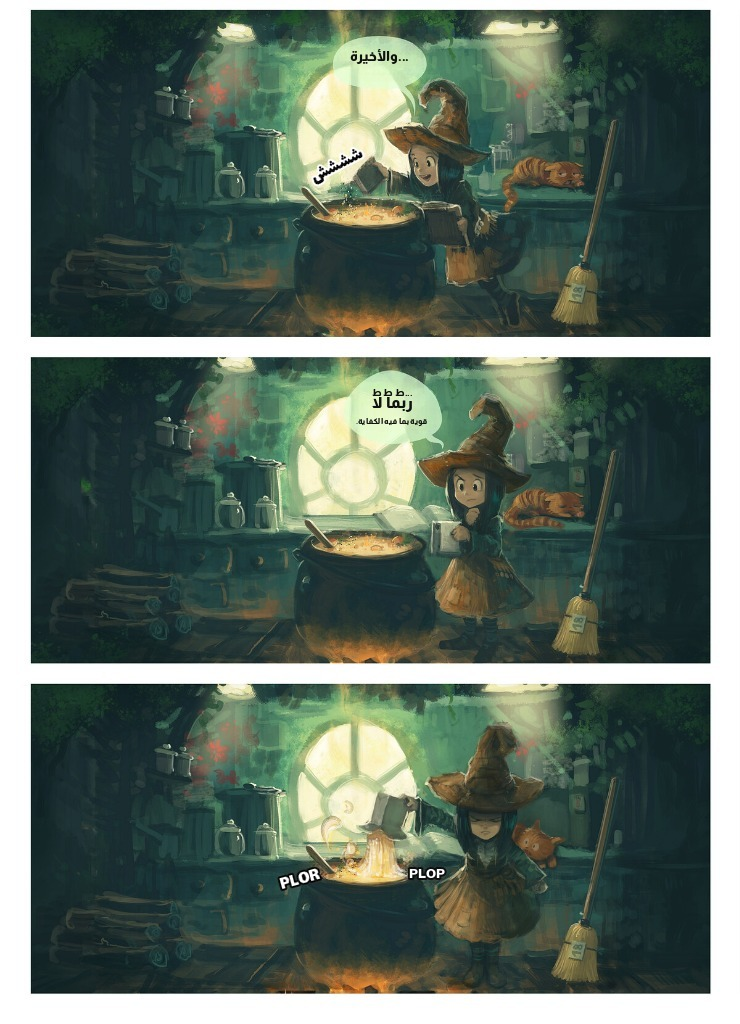
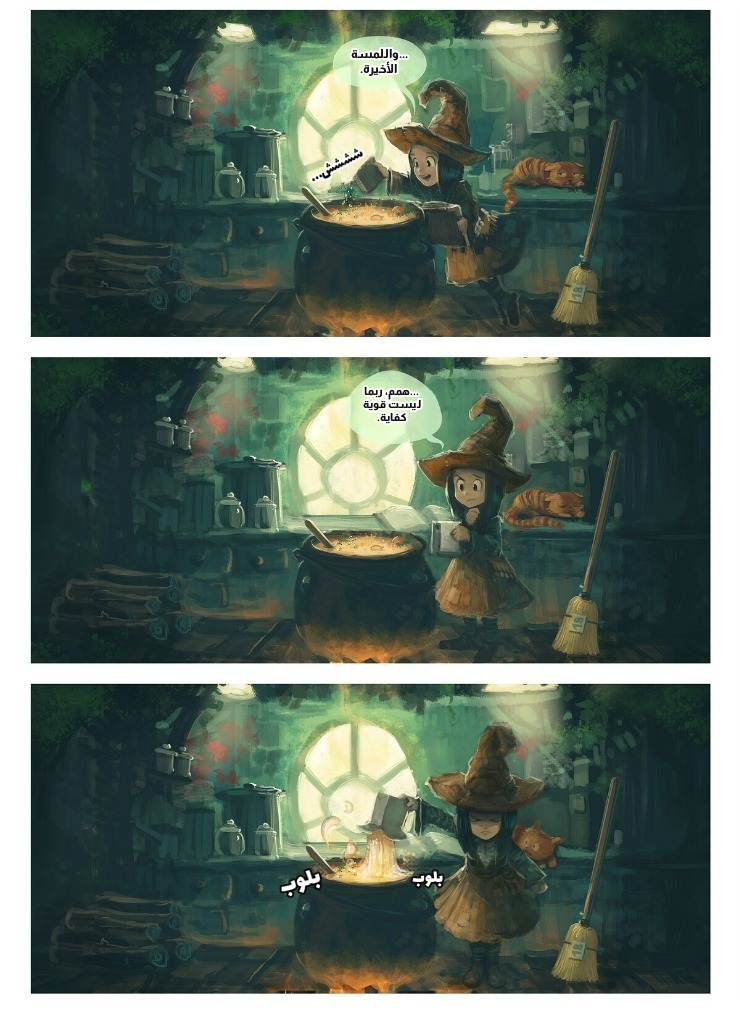
Remove Japanese sample images; add Arabic and Chinese Pepper&Carrot showcase

diff --git a/app/renderer.py b/app/renderer.py
@@ -67,6 +67,24 @@ class MangaRenderer:
                 return FONT_ARABIC_SFX
             if FONT_ARABIC.exists():
                 return FONT_ARABIC
+        if target_lang in {"zh-CN", "zh-TW", "ja", "ko"}:
+            cjk_candidates = (
+                [Path("C:/Windows/Fonts/msyhbd.ttc"), Path("C:/Windows/Fonts/msyh.ttc")]
+                if target_lang in {"zh-CN", "zh-TW"}
+                else (
+                    [Path("C:/Windows/Fonts/YuGothB.ttc"), Path("C:/Windows/Fonts/msyhbd.ttc")]
+                    if target_lang == "ja"
+                    else [Path("C:/Windows/Fonts/malgunbd.ttf"), Path("C:/Windows/Fonts/msyhbd.ttc")]
+                )
+            )
+            cjk_candidates.extend([
+                Path("/usr/share/fonts/opentype/noto/NotoSansCJK-Bold.ttc"),
+                Path("/usr/share/fonts/truetype/noto/NotoSansCJK-Bold.ttc"),
+                Path("/System/Library/Fonts/PingFang.ttc"),
+            ])
+            for cand in cjk_candidates:
+                if cand.exists():
+                    return cand
         if target_lang in {"ja", "ko", "zh-CN", "zh-TW", "th", "hi", "ru", "uk"}:
             if FONT_FALLBACK.exists():
                 return FONT_FALLBACK
@@ -136,6 +154,21 @@ class MangaRenderer:
         max_width: int,
         is_rtl: bool,
     ) -> List[str]:
+        has_cjk = any("\u4e00" <= ch <= "\u9fff" or "\u3040" <= ch <= "\u30ff" for ch in text)
+        if has_cjk and len(text.split()) <= 2:
+            lines: List[str] = []
+            current = ""
+            for ch in text:
+                candidate = current + ch
+                if MangaRenderer._text_width(draw, candidate, font, is_rtl) <= max_width or not current:
+                    current = candidate
+                else:
+                    lines.append(current)
+                    current = ch
+            if current:
+                lines.append(current)
+            return lines
+
         words = text.split()
         if not words:
             return [text]

diff --git a/README.md b/README.md
@@ -34,51 +34,27 @@
 
 ## Visual Showcase
 
-### Japanese Manga → English & Arabic
-
-<table>
-  <tr>
-    <th>Original (Japanese)</th>
-    <th>English</th>
-    <th>Arabic (العربية)</th>
-  </tr>
-  <tr>
-    <td><img src="docs/examples/wikipe_1.jpg" alt="Wikipe-tan Page 1 Original" /></td>
-    <td><img src="docs/examples/wikipe_1_en.jpg" alt="Wikipe-tan Page 1 English" /></td>
-    <td><img src="docs/examples/wikipe_1_ar.jpg" alt="Wikipe-tan Page 1 Arabic" /></td>
-  </tr>
-  <tr>
-    <td><img src="docs/examples/wikipe_2.jpg" alt="Wikipe-tan Page 2 Original" /></td>
-    <td><img src="docs/examples/wikipe_2_en.jpg" alt="Wikipe-tan Page 2 English" /></td>
-    <td><img src="docs/examples/wikipe_2_ar.jpg" alt="Wikipe-tan Page 2 Arabic" /></td>
-  </tr>
-  <tr>
-    <td><img src="docs/examples/wikipe_3.jpg" alt="Wikipe-tan Page 3 Original" /></td>
-    <td><img src="docs/examples/wikipe_3_en.jpg" alt="Wikipe-tan Page 3 English" /></td>
-    <td><img src="docs/examples/wikipe_3_ar.jpg" alt="Wikipe-tan Page 3 Arabic" /></td>
-  </tr>
-</table>
-
-<sub>*Original Japanese pages: Wikipe-tan comic by Kasuga, licensed under [CC BY-SA 3.0](https://creativecommons.org/licenses/by-sa/3.0/) / GFDL. Translated English and Arabic derivatives are shared under the same license.*</sub>
-
-### English Webcomic → Arabic
+### English Webcomic → Arabic & Chinese Simplified
 
 <table>
   <tr>
     <th>Original (English)</th>
     <th>Arabic (العربية)</th>
+    <th>Chinese (简体中文)</th>
   </tr>
   <tr>
     <td><img src="docs/examples/pepper_1.jpg" alt="Pepper&Carrot Page 1 Original" /></td>
     <td><img src="docs/examples/pepper_1_ar.jpg" alt="Pepper&Carrot Page 1 Arabic" /></td>
+    <td><img src="docs/examples/pepper_1_zh.jpg" alt="Pepper&Carrot Page 1 Chinese" /></td>
   </tr>
   <tr>
     <td><img src="docs/examples/pepper_2.jpg" alt="Pepper&Carrot Page 2 Original" /></td>
     <td><img src="docs/examples/pepper_2_ar.jpg" alt="Pepper&Carrot Page 2 Arabic" /></td>
+    <td><img src="docs/examples/pepper_2_zh.jpg" alt="Pepper&Carrot Page 2 Chinese" /></td>
   </tr>
 </table>
 
-<sub>*Original English pages: Pepper&amp;Carrot Episode 1 ("The Potion of Flight") by David Revoy ([peppercarrot.com](https://www.peppercarrot.com)), licensed under [CC BY 4.0](https://creativecommons.org/licenses/by/4.0/). Translated into Arabic with KomaWeave.*</sub>
+<sub>*Original English pages: Pepper&amp;Carrot Episode 1 ("The Potion of Flight") by David Revoy ([peppercarrot.com](https://www.peppercarrot.com)), licensed under [CC BY 4.0](https://creativecommons.org/licenses/by/4.0/). Translated into Arabic and Chinese Simplified with KomaWeave.*</sub>
 
 ---
 

diff --git a/THIRD_PARTY_LICENSES.md b/THIRD_PARTY_LICENSES.md
@@ -19,15 +19,10 @@ KomaWeave source code is licensed under the **GNU Affero General Public License 
 
 ## Documentation Showcase Images (`docs/examples/`)
 
-- **Wikipe-tan Comic Pages (`wikipe_1`–`wikipe_3` and translated derivatives)**
-  - **Author:** Kasuga (Japanese Wikipedia)
-  - **License:** Creative Commons Attribution-ShareAlike 3.0 Unported (CC BY-SA 3.0) / GNU Free Documentation License (GFDL)
-  - **Notes:** Translated English and Arabic derivative images are likewise shared under CC BY-SA 3.0 / GFDL.
-
-- **Pepper&Carrot Episode 1: "The Potion of Flight" (`pepper_1`–`pepper_2` and Arabic translations)**
+- **Pepper&Carrot Episode 1: "The Potion of Flight" (`pepper_1`–`pepper_2`, Arabic & Chinese Simplified translations)**
   - **Author:** David Revoy (`https://www.peppercarrot.com`)
   - **License:** Creative Commons Attribution 4.0 International (CC BY 4.0)
-  - **Notes:** Translated Arabic derivative images are adapted from the original Episode 1 pages with attribution to David Revoy.
+  - **Notes:** Translated Arabic and Chinese Simplified derivative images are adapted from the original Episode 1 pages with attribution to David Revoy.
 
 ## Core Python Dependencies
 
